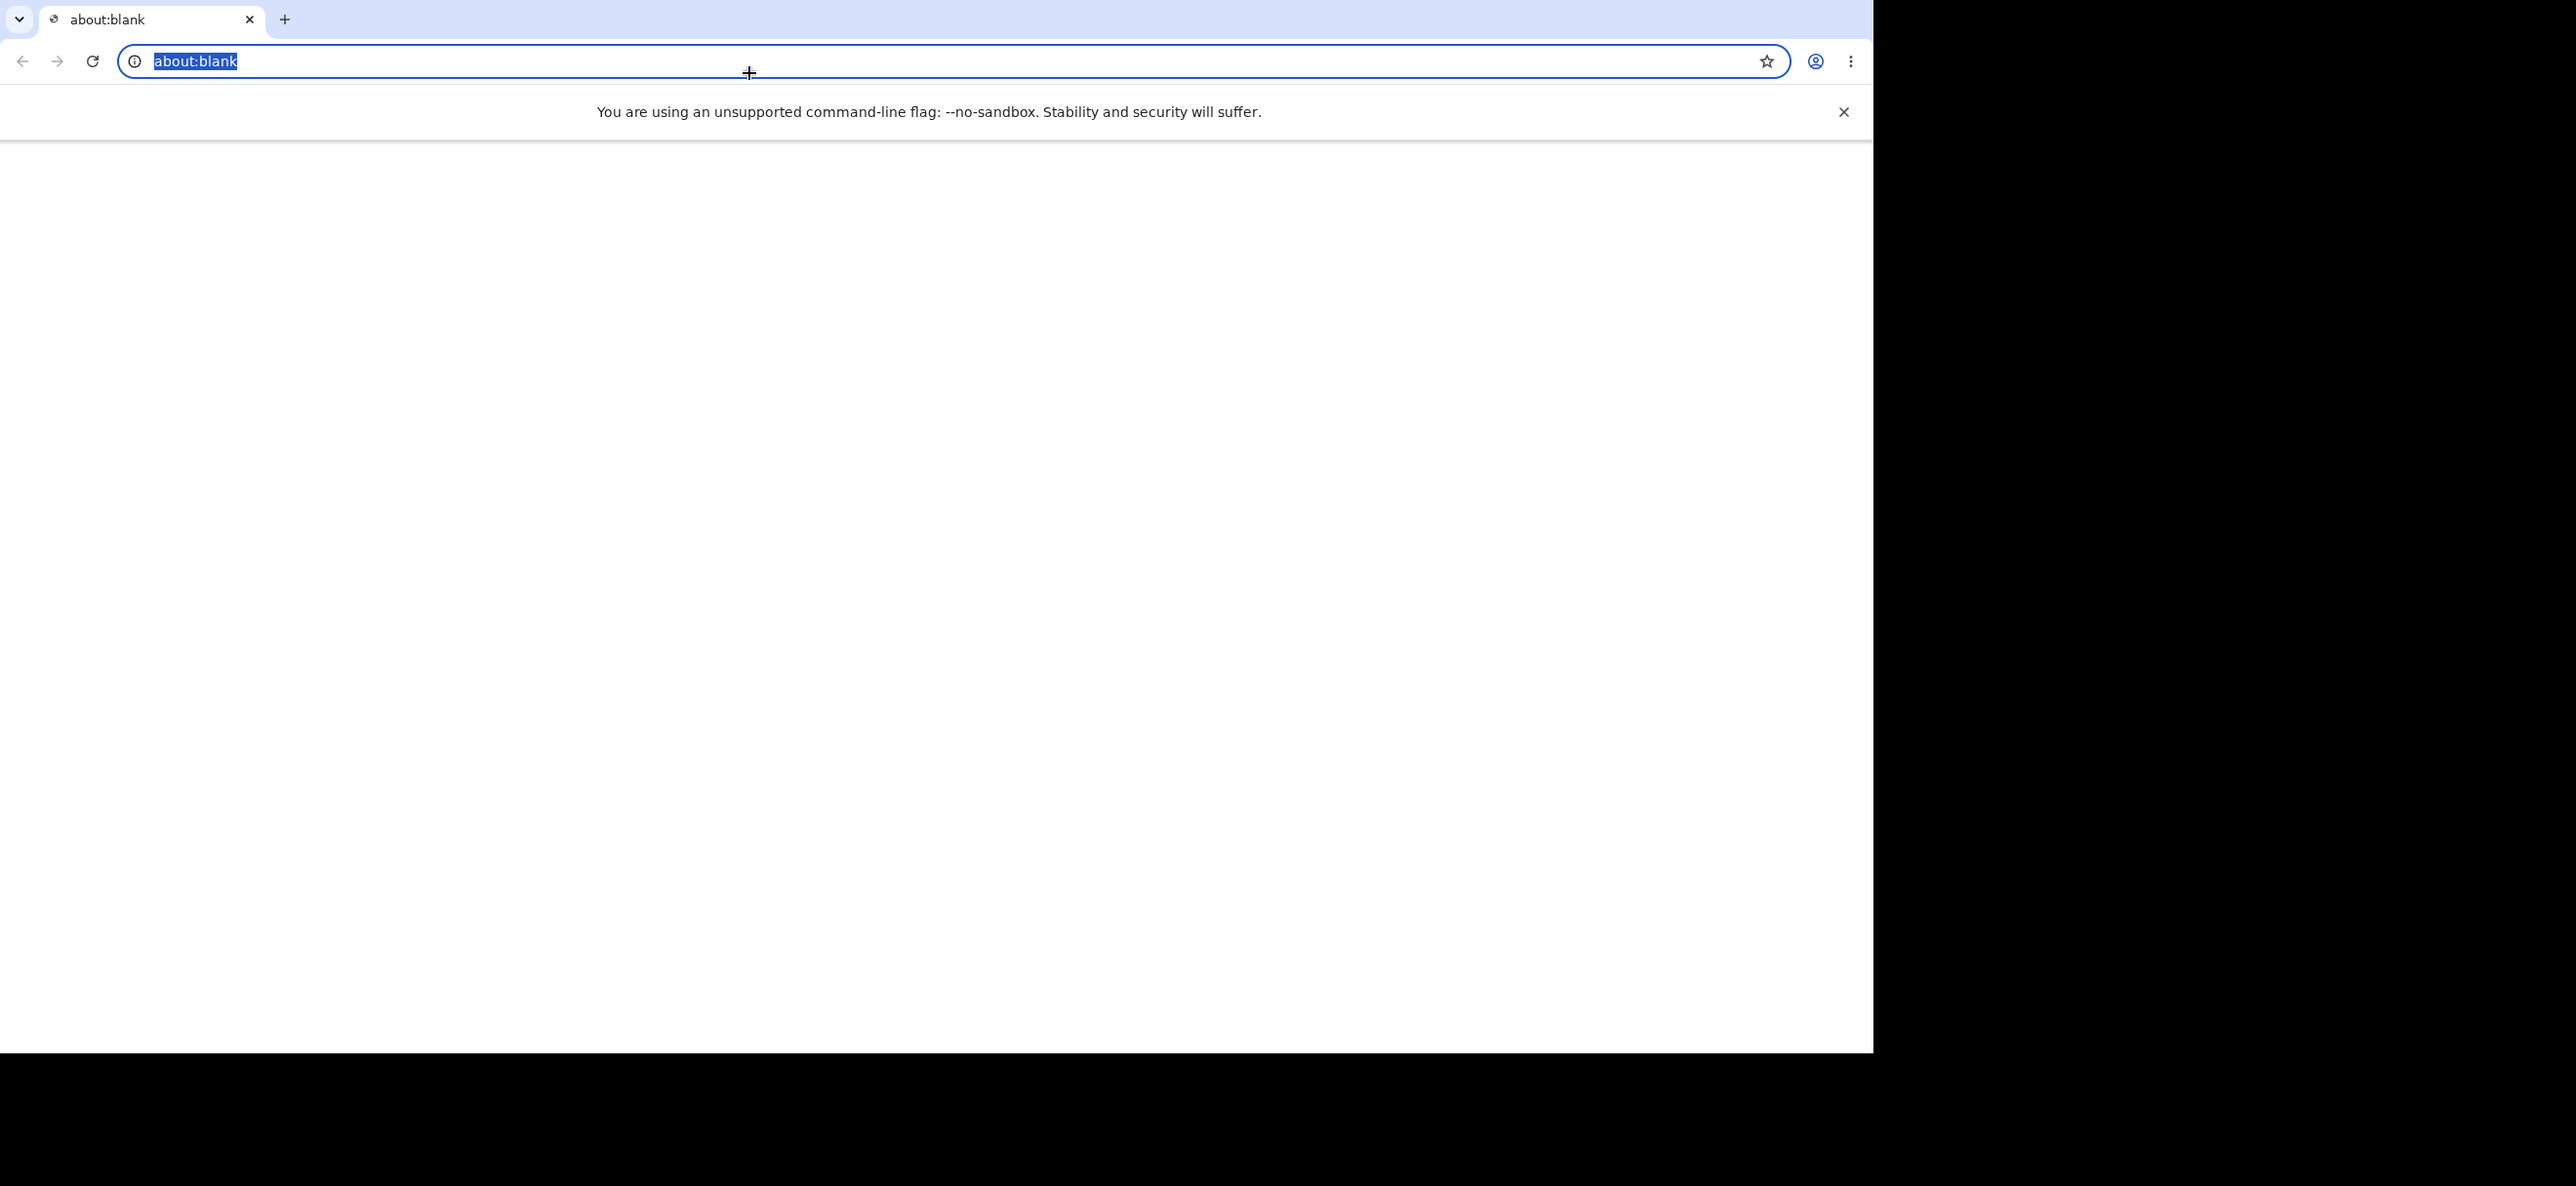
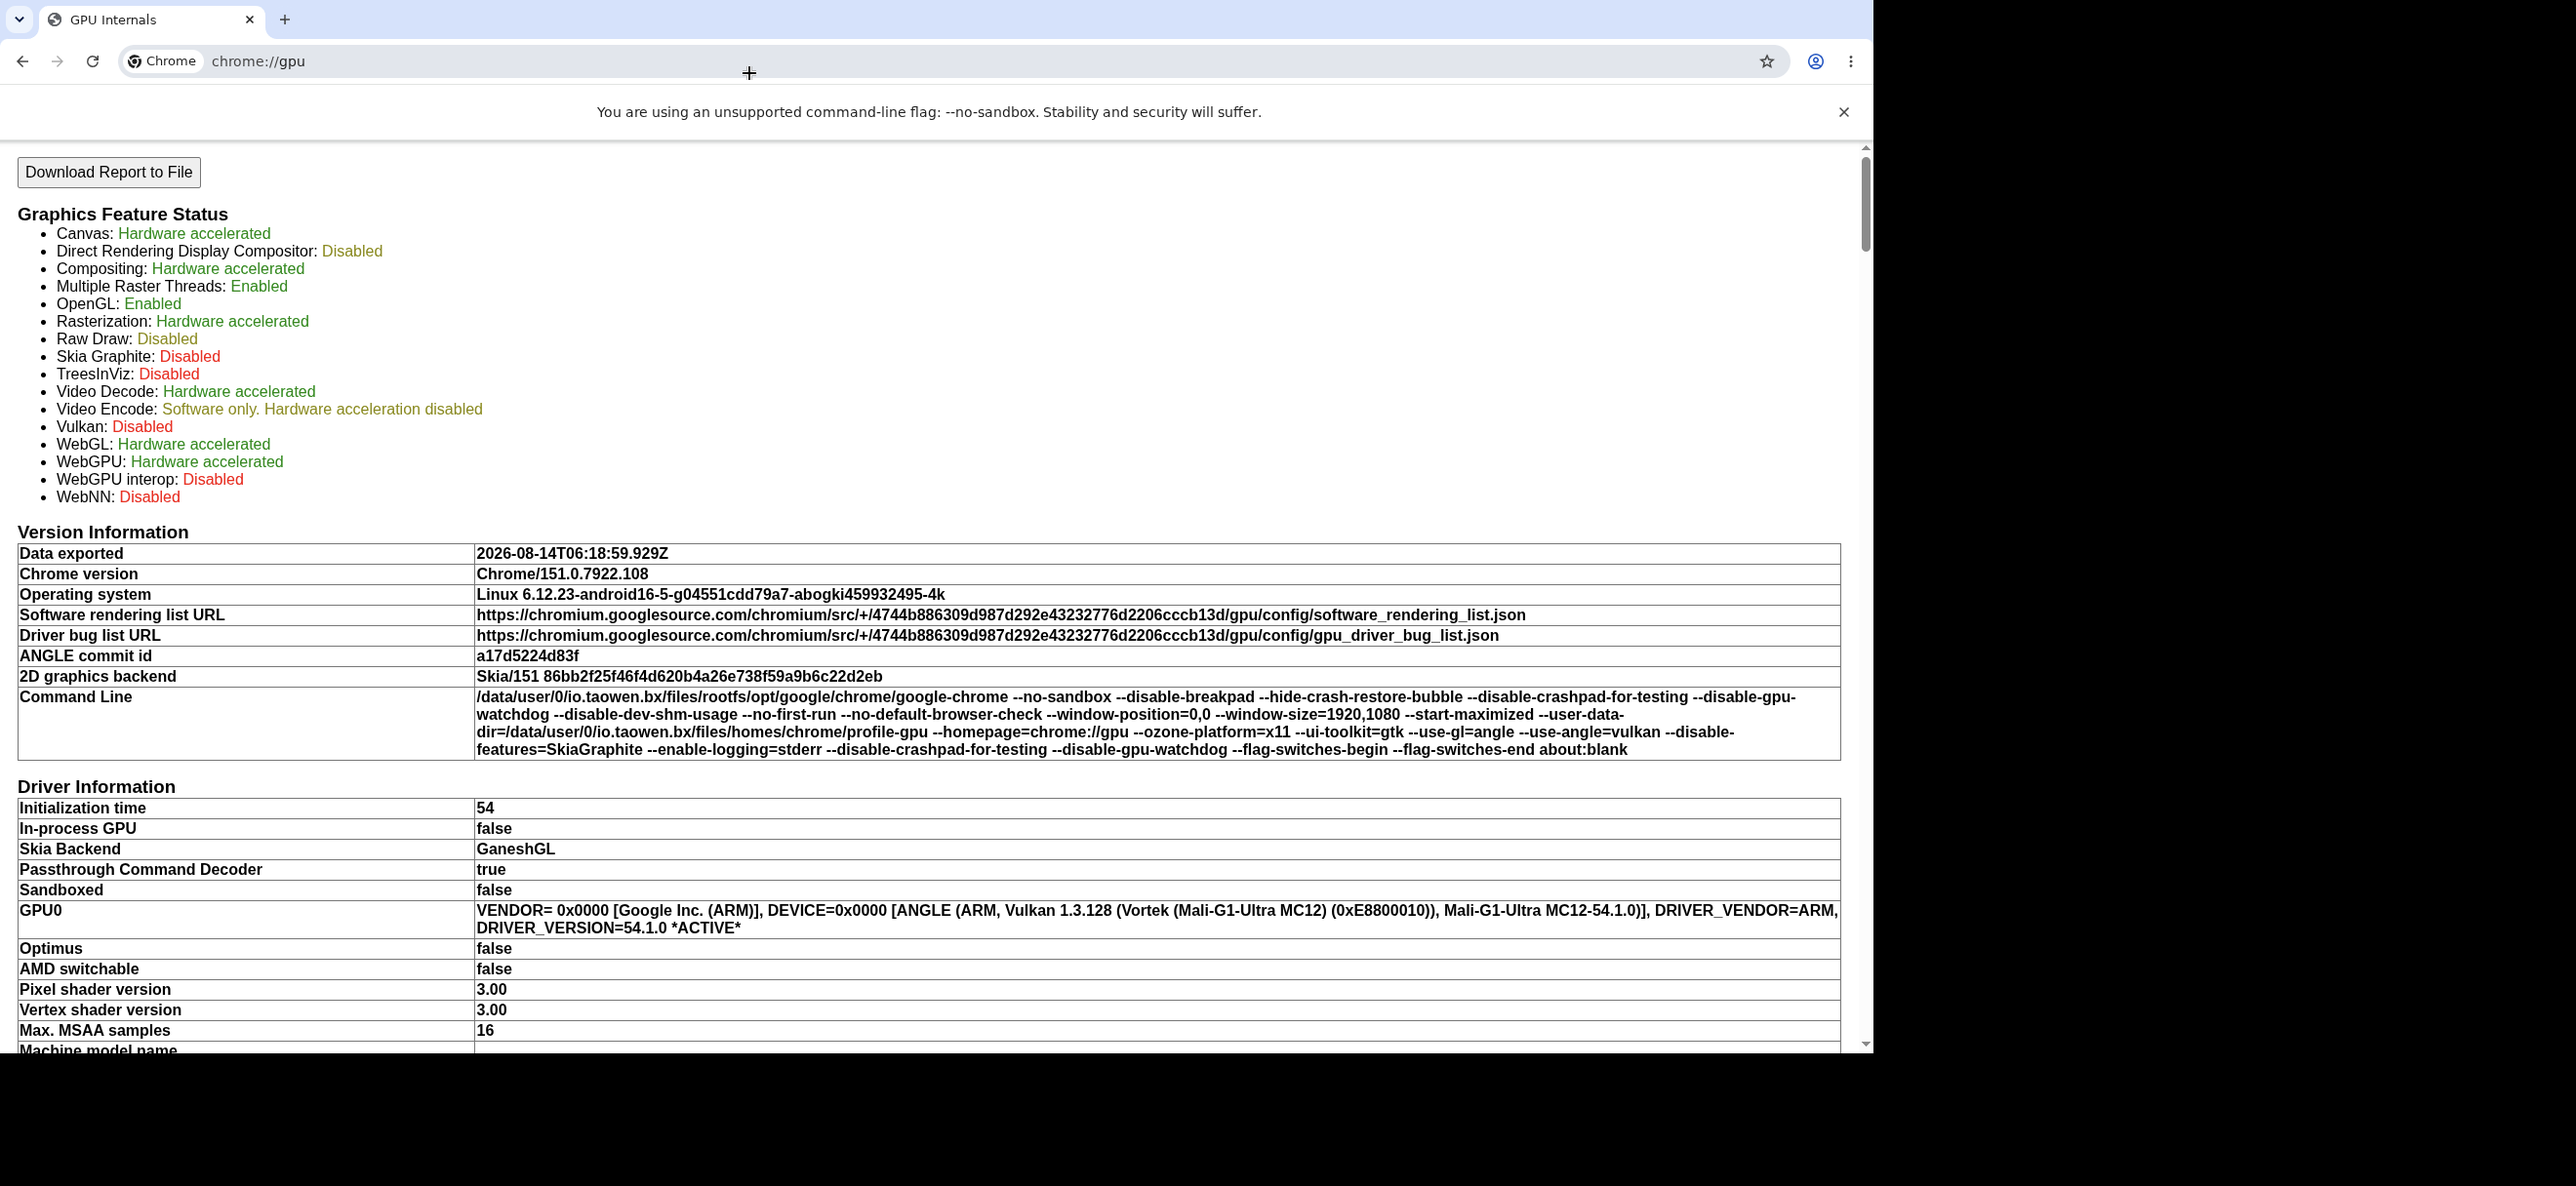
vulkan: never block RPC in WaitForFences.
Chrome waits on a fence that another GPU thread will signal. Blocking
vkWaitForFences on the single RPC thread deadlocks that submit.
Implementing the wait with GetFenceFd is also wrong: SYNC_FD export
transfers the payload and leaves the fence unsignaled.

timeout != 0 now always returns an eventfd immediately. A not-ready
fence is waited off-thread. vulkan-lifetime-deferred-fence covers the
cross-thread case. chrome://gpu paints on Mali 10AFA31610002QH and
still paints on Adreno HA27DTL0.

diff --git a/android/app/src/main/cpp/vortekrenderer/src/request_handler.c b/android/app/src/main/cpp/vortekrenderer/src/request_handler.c
@@ -13,6 +13,67 @@ static int signaled_sync_fd(int fd) {
     return eventfd(1, EFD_CLOEXEC | EFD_NONBLOCK);
 }
 
+/* WaitForFences with timeout != 0 must never block the RPC thread: the
+ * client may be waiting on a fence that another thread will signal with
+ * a later QueueSubmit. Do not implement the wait with GetFenceFd:
+ * SYNC_FD export transfers the payload and leaves the fence unsignaled.
+ * Hand the client an eventfd and wait off-thread. */
+typedef struct WaitFenceRequest {
+    VkDevice device;
+    VkFence fence;
+    uint64_t timeout;
+    int notifyFd;
+} WaitFenceRequest;
+
+static void* waitFenceThread(void* param) {
+    WaitFenceRequest* req = param;
+    VkResult result = vulkanWrapper.vkWaitForFences(
+            req->device, 1, &req->fence, VK_TRUE, req->timeout);
+    if (result == VK_SUCCESS) {
+        uint64_t value = 1;
+        write(req->notifyFd, &value, sizeof(value));
+    }
+    CLOSEFD(req->notifyFd);
+    free(req);
+    return NULL;
+}
+
+static VkResult pending_fence_fd(VkDevice device, VkFence fence,
+                                 uint64_t timeout, int* outFd) {
+    int fd = eventfd(0, EFD_CLOEXEC);
+    if (fd < 0) return VK_ERROR_OUT_OF_HOST_MEMORY;
+
+    WaitFenceRequest* req = calloc(1, sizeof(*req));
+    if (!req) {
+        CLOSEFD(fd);
+        return VK_ERROR_OUT_OF_HOST_MEMORY;
+    }
+    req->device = device;
+    req->fence = fence;
+    req->timeout = timeout;
+    req->notifyFd = dup(fd);
+    if (req->notifyFd < 0) {
+        free(req);
+        CLOSEFD(fd);
+        return VK_ERROR_OUT_OF_HOST_MEMORY;
+    }
+
+    pthread_t thread;
+    pthread_attr_t attr;
+    pthread_attr_init(&attr);
+    pthread_attr_setdetachstate(&attr, PTHREAD_CREATE_DETACHED);
+    int rc = pthread_create(&thread, &attr, waitFenceThread, req);
+    pthread_attr_destroy(&attr);
+    if (rc != 0) {
+        CLOSEFD(req->notifyFd);
+        free(req);
+        CLOSEFD(fd);
+        return VK_ERROR_OUT_OF_HOST_MEMORY;
+    }
+    *outFd = fd;
+    return VK_SUCCESS;
+}
+
 #define MSG_DEBUG_UNIMPLEMENTED_FUNC "%s not implemented yet\n"
 
 void vt_handle_vkCreateInstance(VkContext* context) {
@@ -280,6 +341,9 @@ void vt_handle_vkQueueSubmit(VkContext* context) {
     bool clientWaiting = RingBuffer_hasStatus(context->clientRing, RING_STATUS_WAIT);
     if (context->textureDecoder) TextureDecoder_decodeAll(context->textureDecoder);
 
+    /* Do not vkQueueWaitIdle here. The client may already be blocked in
+     * WaitForFences on another thread; the RPC thread must stay free to
+     * process the submit that signals that fence. */
     VkResult result = vulkanWrapper.vkQueueSubmit(queue, submitCount, submits, fence);
     if (result == VK_ERROR_DEVICE_LOST) context->status = result;
 
@@ -580,25 +644,17 @@ void vt_handle_vkWaitForFences(VkContext* context) {
         int fds[fenceCount];
         memset(fds, 0xff, sizeof(fds));
         for (int i = 0; i < fenceCount; i++) {
-            VkFenceGetFdInfoKHR getFdInfo = {0};
-            getFdInfo.sType = VK_STRUCTURE_TYPE_FENCE_GET_FD_INFO_KHR;
-            getFdInfo.fence = fences[i];
-            getFdInfo.handleType = VK_EXTERNAL_FENCE_HANDLE_TYPE_SYNC_FD_BIT;
-
+            /* Do not implement this wait with GetFenceFd. SYNC_FD export
+             * transfers the payload and leaves the fence unsignaled, so a
+             * later WaitForFences or GetFenceStatus on the same fence
+             * hangs. Eventfd plus an off-thread vkWaitForFences keeps
+             * both the RPC thread and the Vulkan fence state intact. */
             result = vulkanWrapper.vkGetFenceStatus(device, fences[i]);
             if (result == VK_SUCCESS) {
                 fds[i] = signaled_sync_fd(-1);
-            } else if (result == VK_NOT_READY && vulkanWrapper.vkGetFenceFd) {
-                result = vulkanWrapper.vkGetFenceFd(device, &getFdInfo,
-                                                    &fds[i]);
-                if (result == VK_SUCCESS)
-                    fds[i] = signaled_sync_fd(fds[i]);
-            }
-            if (result == VK_NOT_READY || (result != VK_SUCCESS && result != VK_TIMEOUT)) {
-                result = vulkanWrapper.vkWaitForFences(
-                        device, 1, &fences[i], VK_TRUE, timeout);
-                if (result == VK_SUCCESS)
-                    fds[i] = signaled_sync_fd(-1);
+            } else if (result == VK_NOT_READY) {
+                result = pending_fence_fd(device, fences[i], timeout,
+                                          &fds[i]);
             }
             if (result != VK_SUCCESS) break;
             if (fds[i] < 0) {

diff --git a/examples/vulkan-probe/vulkan-lifetime.c b/examples/vulkan-probe/vulkan-lifetime.c
@@ -1,5 +1,90 @@
 #include "common.h"
 
+#include <pthread.h>
+
+typedef struct DeferredFence {
+    VkQueue queue;
+    VkCommandBuffer cmd;
+    VkFence fence;
+} DeferredFence;
+
+static void *submit_deferred_fence(void *arg) {
+    DeferredFence *work = arg;
+    usleep(200000);
+    VkSubmitInfo submit = {
+        .sType = VK_STRUCTURE_TYPE_SUBMIT_INFO,
+        .commandBufferCount = 1,
+        .pCommandBuffers = &work->cmd,
+    };
+    vkQueueSubmit(work->queue, 1, &submit, work->fence);
+    return NULL;
+}
+
+/* Chrome waits on a fence that another GPU thread will signal. If the
+ * ICD RPC thread blocks inside WaitForFences, the later QueueSubmit
+ * never runs and this hangs. */
+static bool probe_deferred_fence(ProbeEnv *env) {
+    VkFenceCreateInfo fence_info = {
+        .sType = VK_STRUCTURE_TYPE_FENCE_CREATE_INFO,
+    };
+    VkFence fence = VK_NULL_HANDLE;
+    if (vkCreateFence(env->device, &fence_info, NULL, &fence) != VK_SUCCESS)
+        return false;
+
+    VkCommandPoolCreateInfo pool_info = {
+        .sType = VK_STRUCTURE_TYPE_COMMAND_POOL_CREATE_INFO,
+        .queueFamilyIndex = env->graphics_family,
+    };
+    VkCommandPool pool = VK_NULL_HANDLE;
+    if (vkCreateCommandPool(env->device, &pool_info, NULL, &pool)
+            != VK_SUCCESS) {
+        vkDestroyFence(env->device, fence, NULL);
+        return false;
+    }
+
+    VkCommandBufferAllocateInfo alloc = {
+        .sType = VK_STRUCTURE_TYPE_COMMAND_BUFFER_ALLOCATE_INFO,
+        .commandPool = pool,
+        .level = VK_COMMAND_BUFFER_LEVEL_PRIMARY,
+        .commandBufferCount = 1,
+    };
+    VkCommandBuffer cmd = VK_NULL_HANDLE;
+    if (vkAllocateCommandBuffers(env->device, &alloc, &cmd) != VK_SUCCESS) {
+        vkDestroyCommandPool(env->device, pool, NULL);
+        vkDestroyFence(env->device, fence, NULL);
+        return false;
+    }
+
+    VkCommandBufferBeginInfo begin = {
+        .sType = VK_STRUCTURE_TYPE_COMMAND_BUFFER_BEGIN_INFO,
+        .flags = VK_COMMAND_BUFFER_USAGE_ONE_TIME_SUBMIT_BIT,
+    };
+    if (vkBeginCommandBuffer(cmd, &begin) != VK_SUCCESS
+            || vkEndCommandBuffer(cmd) != VK_SUCCESS) {
+        vkDestroyCommandPool(env->device, pool, NULL);
+        vkDestroyFence(env->device, fence, NULL);
+        return false;
+    }
+
+    DeferredFence work = {
+        .queue = env->queue,
+        .cmd = cmd,
+        .fence = fence,
+    };
+    pthread_t thread;
+    if (pthread_create(&thread, NULL, submit_deferred_fence, &work) != 0) {
+        vkDestroyCommandPool(env->device, pool, NULL);
+        vkDestroyFence(env->device, fence, NULL);
+        return false;
+    }
+    VkResult waited = vkWaitForFences(env->device, 1, &fence, VK_TRUE,
+                                      UINT64_MAX);
+    pthread_join(thread, NULL);
+    vkDestroyCommandPool(env->device, pool, NULL);
+    vkDestroyFence(env->device, fence, NULL);
+    return waited == VK_SUCCESS;
+}
+
 static int bring_up(ProbeEnv *env) {
     if (!probe_open_window(env)) return 0;
     vkEnumerateInstanceVersion(&env->loader_version);
@@ -16,6 +101,16 @@ int main(void) {
     if (!bring_up(&env)) {
         snprintf(env.details, sizeof(env.details), "bring-up failed");
         result(&env, "vulkan-lifetime", false);
+        probe_env_destroy(&env);
+        printf("BXSUMMARY vulkan-lifetime passed=%u failed=%u\n",
+               env.passed, env.failed);
+        return 1;
+    }
+
+    bool deferred_ok = probe_deferred_fence(&env);
+    snprintf(env.details, sizeof(env.details), "waited=%u", deferred_ok);
+    result(&env, "vulkan-lifetime-deferred-fence", deferred_ok);
+    if (!deferred_ok) {
         probe_env_destroy(&env);
         printf("BXSUMMARY vulkan-lifetime passed=%u failed=%u\n",
                env.passed, env.failed);

diff --git a/android/app/src/main/cpp/vortekrenderer/src/xwindow_swapchain.c b/android/app/src/main/cpp/vortekrenderer/src/xwindow_swapchain.c
@@ -296,6 +296,14 @@ static void publish_pixels(XWindowSwapchain* swapchain, JNIEnv* env) {
     if (!swapchain->jmethods || !env || !swapchain->publishMapped
             || !swapchain->jmethods->publishWindowPixels)
         return;
+    if (swapchain->publishMemory && vulkanWrapper.vkInvalidateMappedMemoryRanges) {
+        VkMappedMemoryRange range = {0};
+        range.sType = VK_STRUCTURE_TYPE_MAPPED_MEMORY_RANGE;
+        range.memory = swapchain->publishMemory;
+        range.size = VK_WHOLE_SIZE;
+        vulkanWrapper.vkInvalidateMappedMemoryRanges(swapchain->device, 1,
+                                                     &range);
+    }
     jobject buffer = (*env)->NewDirectByteBuffer(
             env, swapchain->publishMapped, (jlong)swapchain->publishSize);
     if (!buffer)

diff --git a/docs/diagnostics/2026-08-14-chrome-vulkan-mali.md b/docs/diagnostics/2026-08-14-chrome-vulkan-mali.md
@@ -17,20 +17,27 @@ render `vkQueueSubmit` on the single graphics queue, so present-wait
 semaphores are not GPU-waited (a later timeline wait on those
 semaphores would hang the blit).
 
-`vkWaitForFences` implements SYNC_FD: an already-signaled fence is a
-signaled eventfd, not `fd=-1` over SCM_RIGHTS. `vkResetFences` waits
-for the server.
+`vkWaitForFences` with `timeout != 0` never blocks the RPC thread.
+An already-signaled fence is a signaled eventfd, not `fd=-1` over
+SCM_RIGHTS. A not-ready fence is an unsignaled eventfd plus an
+off-thread `vkWaitForFences`; `GetFenceFd` is not used for this wait
+because SYNC_FD export transfers the payload and leaves the fence
+unsignaled. `vkResetFences` waits for the server.
+
+`vulkan-lifetime-deferred-fence` waits on an unsignaled fence while
+another thread later `vkQueueSubmit`s it. That hangs if RPC blocks
+inside `WaitForFences`. It PASSes on this device.
 
 `vulkan-chrome-frames` (1920×1080, acquire sem+fence, 16 overlapping
 presents, green then blue) is `16/16` and compositor
 `blue≈1.8e6 green=0` on this device. The same probe is blue on Adreno
 `HA27DTL0`.
 
-Untraced `chrome-vulkan.json` still paints the static WebGL fixture
+Untraced `chrome-vulkan.json` paints the static WebGL fixture
 (`WEBGL_OK` / ANGLE Vulkan Mali). `chrome-smoke` plus `open-gpu.sh`
-updates the window title to `GPU Internals` but the compositor stays
-on the first `about:blank` frame. Adreno paints the full
-`chrome://gpu` page after the same WSI change.
+paints the full `chrome://gpu` page (Graphics Feature Status,
+ANGLE/Vortek Mali-G1-Ultra). Adreno `HA27DTL0` still paints the same
+page after the WaitForFences change.
 
-See `evidence/vivo-10AFA31610002QH/vulkan-chrome-frames.png` and
+See `evidence/vivo-10AFA31610002QH/chrome-smoke.png` and
 `evidence/HA27DTL0/chrome-smoke.png`.

diff --git a/docs/diagnostics/2026-08-14-chrome-adreno.md b/docs/diagnostics/2026-08-14-chrome-adreno.md
@@ -15,10 +15,9 @@ compositing / WebGL are hardware accelerated. The `Vulkan: Disabled`
 line is Chrome's native Skia-Vulkan path (`SkiaGraphite` stays off);
 ANGLE is still on the Vortek Vulkan ICD.
 
-vivo `10AFA31610002QH` (Mali-G1-Ultra) reaches the same window title
-(`GPU Internals`) but the compositor stays on the first `about:blank`
-frame. The remaining freeze is Mali/AHB, not a generic Chrome or Vortek
-mailbox bug.
+vivo `10AFA31610002QH` (Mali-G1-Ultra) now paints the same
+`chrome://gpu` page after `WaitForFences` stopped blocking the RPC
+thread and stopped exporting SYNC_FD for that wait.
 
 See `evidence/HA27DTL0/hello.png`, `vulkan-frames.png`, and
 `chrome-smoke.png`.
